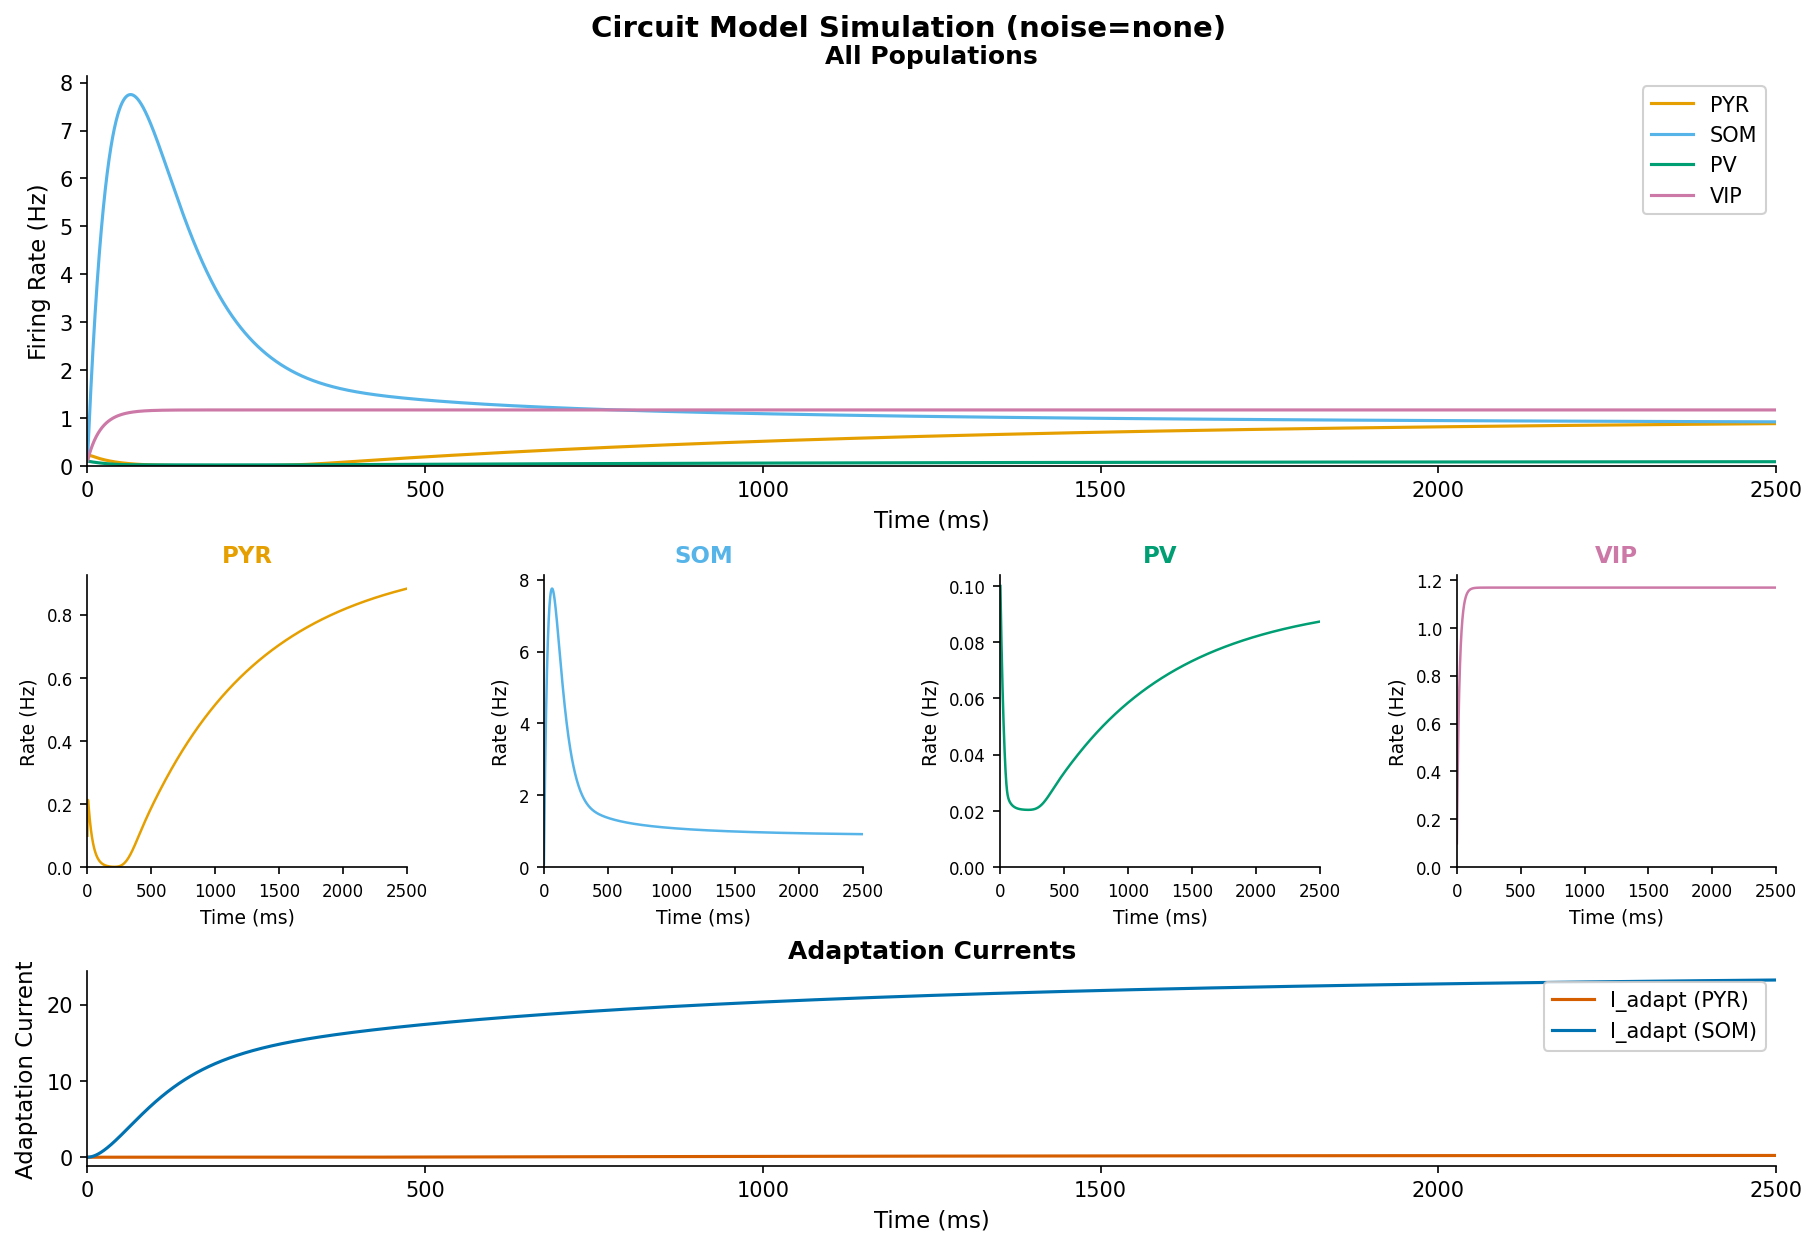
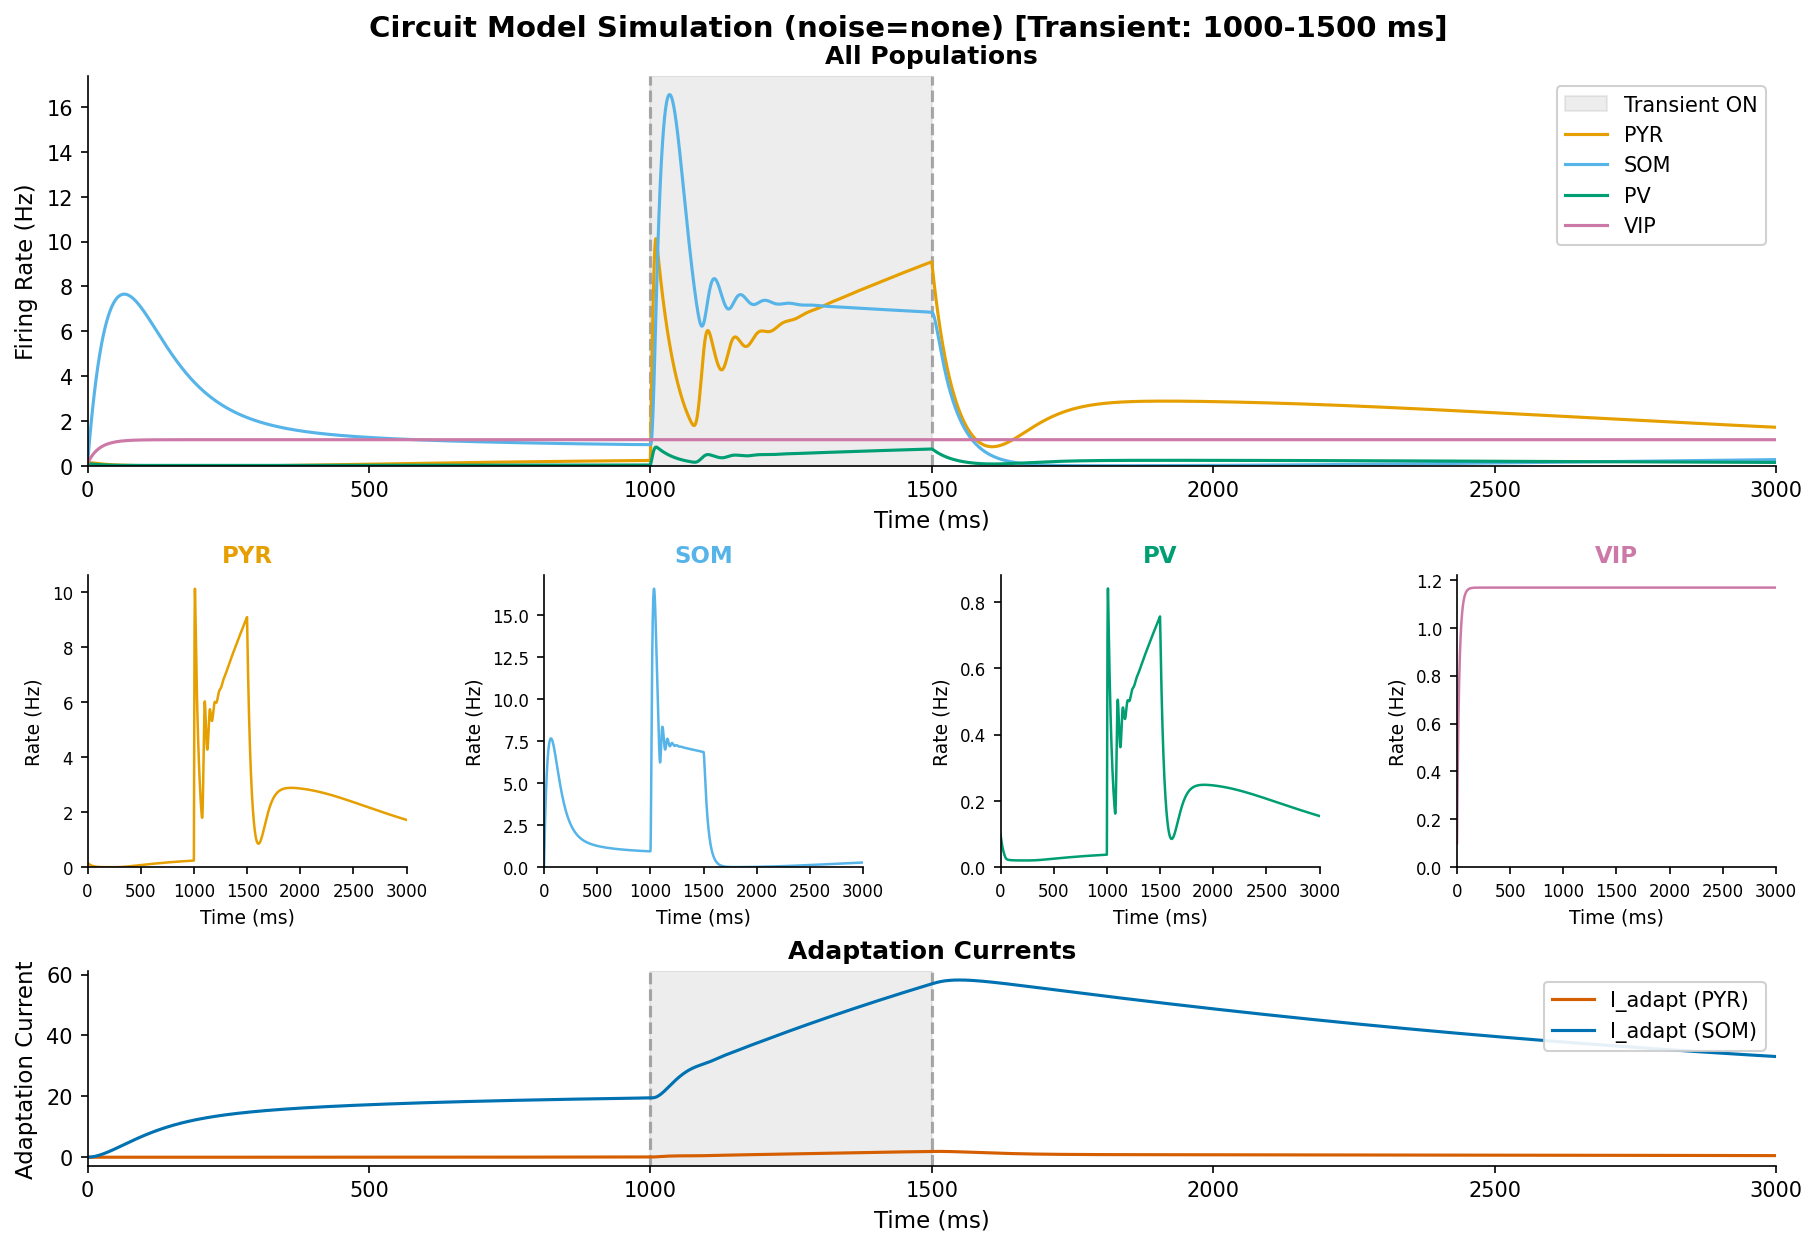
Add transient input on simulation

diff --git a/mean_steady_code/circuit_model/plotting.py b/mean_steady_code/circuit_model/plotting.py
@@ -49,6 +49,44 @@ ADAPTATION_COLORS = {
     "PYR": "#D55E00",  # Vermillion (darker orange)
     "SOM": "#0072B2",  # Blue (darker)
 }
+TRANSIENT_COLOR = "#888888"  # Gray for transient markers
+
+
+def _add_transient_markers(
+    ax,
+    transient_window: tuple[float, float],
+    time_range: Optional[tuple[float, float]] = None,
+    add_legend: bool = False,
+):
+    """
+    Add vertical lines and shading to indicate transient current window.
+
+    Parameters:
+        ax: Matplotlib axis
+        transient_window: (start_ms, end_ms) of transient
+        time_range: Optional (t_start, t_end) for clipping
+        add_legend: Whether to add a legend entry
+    """
+    t_start, t_end = transient_window
+
+    # Clip to visible range if specified
+    if time_range is not None:
+        vis_start, vis_end = time_range
+        # Only draw if transient overlaps with visible range
+        if t_end < vis_start or t_start > vis_end:
+            return
+        # Clip transient window to visible range
+        t_start = max(t_start, vis_start)
+        t_end = min(t_end, vis_end)
+
+    # Shaded region
+    ax.axvspan(t_start, t_end, alpha=0.15, color=TRANSIENT_COLOR,
+               label="Transient ON" if add_legend else None)
+    # Vertical lines at boundaries
+    ax.axvline(transient_window[0], color=TRANSIENT_COLOR, linestyle="--",
+               linewidth=1.5, alpha=0.7)
+    ax.axvline(transient_window[1], color=TRANSIENT_COLOR, linestyle="--",
+               linewidth=1.5, alpha=0.7)
 
 
 def plot_firing_rates(
@@ -57,6 +95,7 @@ def plot_firing_rates(
     title: str = "Population Firing Rates",
     show_legend: bool = True,
     time_range: Optional[tuple[float, float]] = None,
+    show_transient: bool = True,
 ):
     """
     Plot firing rates over time for all 4 populations.
@@ -67,6 +106,7 @@ def plot_firing_rates(
         title: Plot title
         show_legend: Whether to show legend
         time_range: Optional (t_start, t_end) in ms to zoom in
+        show_transient: Whether to show transient window markers (if present)
 
     Returns:
         The matplotlib axis object
@@ -84,6 +124,10 @@ def plot_firing_rates(
         mask = (t >= time_range[0]) & (t <= time_range[1])
         t = t[mask]
         r = r[mask]
+
+    # Draw transient markers first (so they're behind the data)
+    if show_transient and result.transient_window is not None:
+        _add_transient_markers(ax, result.transient_window, time_range, add_legend=show_legend)
 
     for i, name in enumerate(POPULATION_NAMES):
         ax.plot(t, r[:, i], label=name, color=POPULATION_COLORS[name], linewidth=1.5)
@@ -108,6 +152,7 @@ def plot_adaptation(
     title: str = "Adaptation Currents",
     show_legend: bool = True,
     time_range: Optional[tuple[float, float]] = None,
+    show_transient: bool = True,
 ):
     """
     Plot adaptation currents (I_adapt) over time for PYR and SOM.
@@ -118,6 +163,7 @@ def plot_adaptation(
         title: Plot title
         show_legend: Whether to show legend
         time_range: Optional (t_start, t_end) in ms to zoom in
+        show_transient: Whether to show transient window markers (if present)
 
     Returns:
         The matplotlib axis object
@@ -135,6 +181,10 @@ def plot_adaptation(
         mask = (t >= time_range[0]) & (t <= time_range[1])
         t = t[mask]
         I_adapt = I_adapt[mask]
+
+    # Draw transient markers first (so they're behind the data)
+    if show_transient and result.transient_window is not None:
+        _add_transient_markers(ax, result.transient_window, time_range, add_legend=False)
 
     ax.plot(t, I_adapt[:, 0], label="I_adapt (PYR)", color=ADAPTATION_COLORS["PYR"], linewidth=1.5)
     ax.plot(t, I_adapt[:, 1], label="I_adapt (SOM)", color=ADAPTATION_COLORS["SOM"], linewidth=1.5)

diff --git a/mean_steady_code/circuit_model/cli.py b/mean_steady_code/circuit_model/cli.py
@@ -94,6 +94,7 @@ def add_simulation_args(parser: argparse.ArgumentParser) -> None:
 
 def cmd_run(args: argparse.Namespace) -> None:
     """Run a simulation and plot the results."""
+    from dataclasses import replace
     from .plotting import plot_simulation_dashboard, print_simulation_summary
 
     # Load or create parameters
@@ -104,11 +105,28 @@ def cmd_run(args: argparse.Namespace) -> None:
         params = CircuitParams()
         print("Using default parameters")
 
+    # Apply transient settings if enabled
+    use_transient = args.enable_transient
+    if use_transient:
+        params = replace(
+            params,
+            trans_enabled=True,
+            trans_start_ms=args.trans_start_ms,
+            trans_duration_ms=args.trans_duration_ms,
+            I_trans=args.trans_magnitude,
+        )
+
     # Print key parameter values
     print("\nKey parameters:")
     print(f"  tau_s = {params.tau_s:.2f} ms")
     print(f"  sigma_s = {params.sigma_s:.2f} (noise)")
     print(f"  g_gaba = {params.g_gaba():.2f} (GABA scaling)")
+
+    if use_transient:
+        trans_end = params.trans_start_ms + params.trans_duration_ms
+        print(f"\nTransient current:")
+        print(f"  I_trans = {params.I_trans:.2f}")
+        print(f"  Window: {params.trans_start_ms:.1f} - {trans_end:.1f} ms")
 
     # Run simulation
     print(f"\nRunning simulation: T={args.T_ms} ms, dt={args.dt_ms} ms, noise={args.noise_type}")
@@ -120,6 +138,7 @@ def cmd_run(args: argparse.Namespace) -> None:
         seed=args.seed,
         noise_type=args.noise_type,
         tau_noise_ms=args.tau_noise_ms,
+        use_transient=use_transient,
     )
 
     # Print summary
@@ -134,6 +153,9 @@ def cmd_run(args: argparse.Namespace) -> None:
             time_range = (float(parts[0]), float(parts[1]))
 
     title = f"Circuit Model Simulation (noise={args.noise_type})"
+    if use_transient:
+        title += f" [Transient: {params.trans_start_ms:.0f}-{params.trans_start_ms + params.trans_duration_ms:.0f} ms]"
+
     plot_simulation_dashboard(
         result,
         title=title,
@@ -291,6 +313,16 @@ Examples:
     run_parser.add_argument("--no_show", action="store_true",
                             help="Don't display the plot (useful for batch processing)")
 
+    # Transient current options
+    run_parser.add_argument("--enable_transient", action="store_true",
+                            help="Enable time-dependent transient current (applied only during transient window)")
+    run_parser.add_argument("--trans_start_ms", type=float, default=1000.0,
+                            help="Time when transient starts (ms), default=1000")
+    run_parser.add_argument("--trans_duration_ms", type=float, default=500.0,
+                            help="Duration of transient pulse (ms), default=500")
+    run_parser.add_argument("--trans_magnitude", type=float, default=5.0,
+                            help="Magnitude of transient current (I_trans), default=5.0")
+
     # =========================================================================
     # OPTIMIZE subcommand
     # =========================================================================
@@ -352,9 +384,9 @@ Examples:
                             help="Show which parameters are free vs frozen")
 
     # I/O settings
-    opt_parser.add_argument("--save_best_json", type=str, default="",
+    opt_parser.add_argument("--save_best_json", type=str, default="best_params.json",
                             help="Save best parameters to JSON file")
-    opt_parser.add_argument("--log_file", type=str, default="",
+    opt_parser.add_argument("--log_file", type=str, default="results_log.jsonl",
                             help="Log results to JSONL file")
     opt_parser.add_argument("--log_interval", type=int, default=50,
                             help="Log every N steps")

diff --git a/mean_steady_code/circuit_model/params.py b/mean_steady_code/circuit_model/params.py
@@ -117,6 +117,15 @@ class CircuitParams:
     act_alpha5: float = 1.0  # alpha5 nAChR activation (affects VIP)
 
     # =========================================================================
+    # TRANSIENT CURRENT TIMING (for time-varying stimulation)
+    # =========================================================================
+    # When trans_enabled=True, I_trans is applied only during [trans_start_ms, trans_start_ms + trans_duration_ms)
+    # When trans_enabled=False, I_trans is always added to PYR input (backward compatible)
+    trans_start_ms: float = 1000.0     # When transient starts (ms)
+    trans_duration_ms: float = 500.0   # Duration of transient pulse (ms)
+    trans_enabled: bool = False        # Whether to use time-dependent transient
+
+    # =========================================================================
     # TRANSFER FUNCTION PARAMETERS (Wong-Wang)
     # =========================================================================
     # Each population has its own threshold (Theta) and gain (alpha)
@@ -142,8 +151,23 @@ class CircuitParams:
         return self.g_gaba_base + self.g_alpha7
 
     def I_ext_pyr(self) -> float:
-        """Total external current to PYR."""
+        """Total external current to PYR (static, for optimization)."""
         return self.I0_pyr + self.I_trans
+
+    def I_ext_pyr_at_time(self, t_ms: float) -> float:
+        """
+        Total external current to PYR at time t_ms.
+
+        When trans_enabled=True, I_trans is only applied during the transient window.
+        When trans_enabled=False, behaves like I_ext_pyr() (always includes I_trans).
+        """
+        if not self.trans_enabled:
+            return self.I0_pyr + self.I_trans
+        # Time-dependent transient
+        trans_end_ms = self.trans_start_ms + self.trans_duration_ms
+        if self.trans_start_ms <= t_ms < trans_end_ms:
+            return self.I0_pyr + self.I_trans
+        return self.I0_pyr
 
     def I_ext_pv(self) -> float:
         """Total external current to PV (with alpha7 modulation)."""

diff --git a/mean_steady_code/circuit_model/simulation.py b/mean_steady_code/circuit_model/simulation.py
@@ -27,6 +27,8 @@ class SimulationResult:
     t_ms: np.ndarray      # Shape: (n_steps,) - Time points in ms
     r: np.ndarray         # Shape: (n_steps, 4) - Firing rates [pyr, som, pv, vip]
     I_adapt: np.ndarray   # Shape: (n_steps, 2) - Adaptation currents [pyr, som]
+    # Optional transient window info for plotting
+    transient_window: Optional[tuple[float, float]] = None  # (start_ms, end_ms)
 
 
 def simulate_circuit(
@@ -39,6 +41,7 @@ def simulate_circuit(
     seed: Optional[int] = None,
     noise_type: NoiseType = "none",
     tau_noise_ms: float = 5.0,
+    use_transient: bool = False,
 ) -> SimulationResult:
     """
     Simulate the 4-population circuit using Euler integration.
@@ -58,6 +61,8 @@ def simulate_circuit(
         seed: Random seed for reproducibility
         noise_type: "none", "white" (Gaussian), or "ou" (Ornstein-Uhlenbeck)
         tau_noise_ms: Time constant for OU noise (if used)
+        use_transient: If True and params.trans_enabled=True, apply time-dependent
+                       transient current to PYR (only during transient window)
 
     Returns:
         SimulationResult with time points, firing rates, and adaptation currents
@@ -126,11 +131,16 @@ def simulate_circuit(
         # synapses that reduce input resistance, effectively dividing excitation.
         # This is biologically accurate: PV targets soma/proximal dendrites.
         denom = 1.0 + ggaba * params.w_pe * r_pv  # Shunting denominator
+        # Use time-dependent current if transient mode is enabled
+        if use_transient:
+            I_ext_pyr_val = params.I_ext_pyr_at_time(t[k])
+        else:
+            I_ext_pyr_val = params.I_ext_pyr()
         I_pyr = (
             (params.w_ee * r_pyr) / denom  # Recurrent excitation (divided by PV)
             - ggaba * params.w_se * r_som  # SOM dendritic inhibition (subtractive)
             - Iap                          # Spike-frequency adaptation
-            + params.I_ext_pyr()           # External input (baseline + transient)
+            + I_ext_pyr_val                # External input (baseline + transient)
         )
 
         # --- SOM INPUT ---
@@ -194,7 +204,13 @@ def simulate_circuit(
         I_adapt[k + 1, 0] = Iap + dt_ms * dIap
         I_adapt[k + 1, 1] = Ias + dt_ms * dIas
 
-    return SimulationResult(t_ms=t, r=r, I_adapt=I_adapt)
+    # Compute transient window for plotting if enabled
+    transient_window = None
+    if use_transient and params.trans_enabled:
+        trans_end = params.trans_start_ms + params.trans_duration_ms
+        transient_window = (params.trans_start_ms, trans_end)
+
+    return SimulationResult(t_ms=t, r=r, I_adapt=I_adapt, transient_window=transient_window)
 
 
 def mean_rates(result: SimulationResult, burn_in_ms: float, window_ms: float) -> np.ndarray: